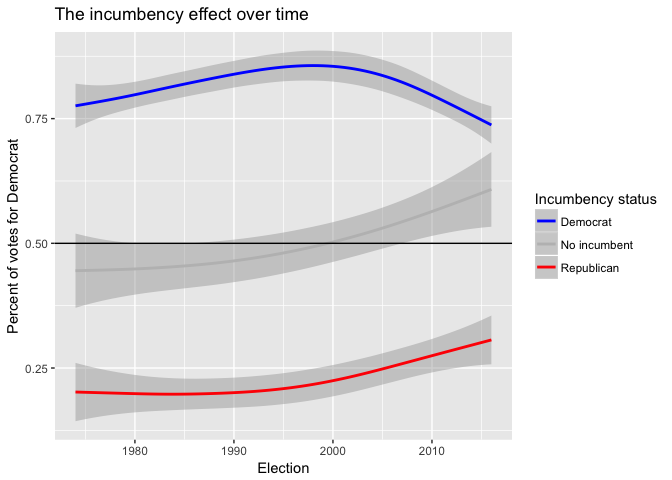
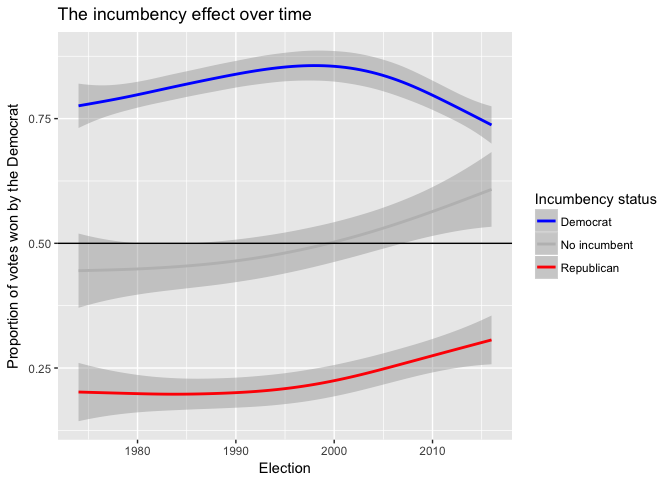
updated labels

diff --git a/FinalProject/TheWork/FinalProject.md b/FinalProject/TheWork/FinalProject.md
@@ -268,12 +268,10 @@ plot1 <- ggplot(Results, aes(y = Leg_Dem, x = Leg_Repub)) +
   geom_point(mapping = aes(col = incumb_party_name)) +
   scale_colour_manual(values = c("blue", "grey", "red")) +
   geom_abline(intercept = 0, slope = 1) +
-  scale_y_continuous(name = "Fluorescent intensity/arbitrary units",
+  scale_y_continuous(name = "Vote count for the Democrat",
                      labels = comma) +
-  scale_x_continuous(name = "Fluorescent intensity/arbitrary units",
+  scale_x_continuous(name = "Vote count for the Republican",
                      labels = comma) +
-  ylab("Vote count for the Democratic Candidate") +
-  xlab("Vote count for the Republican Candidate") +
   labs(col = "Incumbency status") +
   ggtitle("The incumbency effect")
 plot1
@@ -288,7 +286,7 @@ plot2 <- ggplot(Results, aes(y = perc_Dem, x = year)) +
   geom_abline(intercept = .5, slope = 0) +
   ggtitle("The incumbency effect over time") +
   xlab("Election") +
-  ylab("Percent of votes for Democrat") +
+  ylab("Proportion of votes won by the Democrat") +
   labs(col = "Incumbency status")
 plot2
 ```
